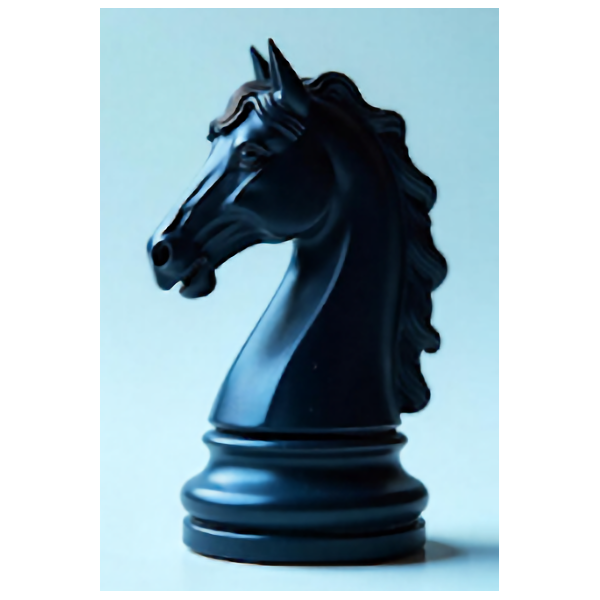
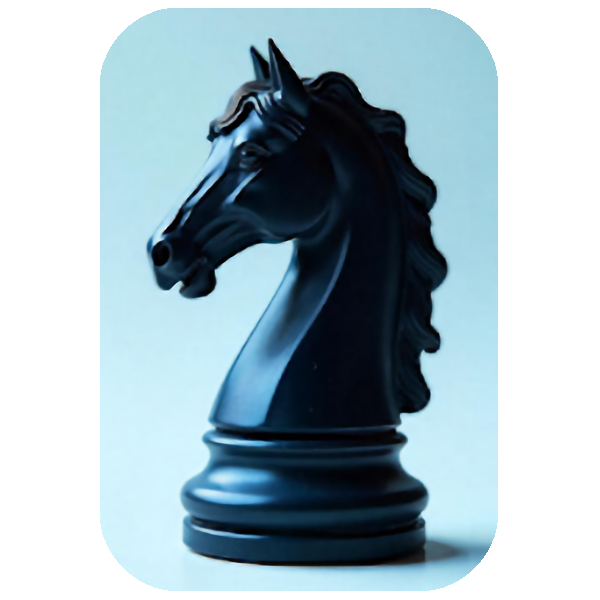
added pac-man

diff --git a/public/index.html b/public/index.html
@@ -83,6 +83,17 @@
                 <img src="img/card.png" alt="Solitaire" />
             </a>
 
+            <!-- unity webgl pac-man game link to local iframe -->
+            <a
+                id="pacman"
+                class="desktop_only game hidden_icon hovering_rt"
+                href="https://kellycode.github.io/pac_man_wgl/"
+                target="k_iframe"
+            >
+                <span class="name_tooltip">Unity WebGL Pac-Man</span>
+                <img src="img/pac_man.png" alt="Pac-Man" />
+            </a>
+
             <!-- ThreeJS Updated Fork of https://github.com/FrenchYann/Chess3D -->
             <a
                 id="chess3d"
@@ -90,8 +101,8 @@
                 href="https://kellycode.github.io/Chess3D_SA/"
                 target="k_iframe"
             >
-                <span class="name_tooltip">3D AI Chess</span>
-                <img src="img/chess_2.png" alt="#d AI Chess" />
+                <span class="name_tooltip">3D JS AI Chess</span>
+                <img src="img/chess_2.png" alt="AI Chess" />
             </a>
         </div>
 

diff --git a/public/css/kellycode.css b/public/css/kellycode.css
@@ -145,6 +145,10 @@ html.no_js body #kellycode_iframe {
     top: 115px;
 }
 
-#chess3d {
+#pacman {
     top: 160px;
+}
+
+#chess3d {
+    top: 205px;
 }
